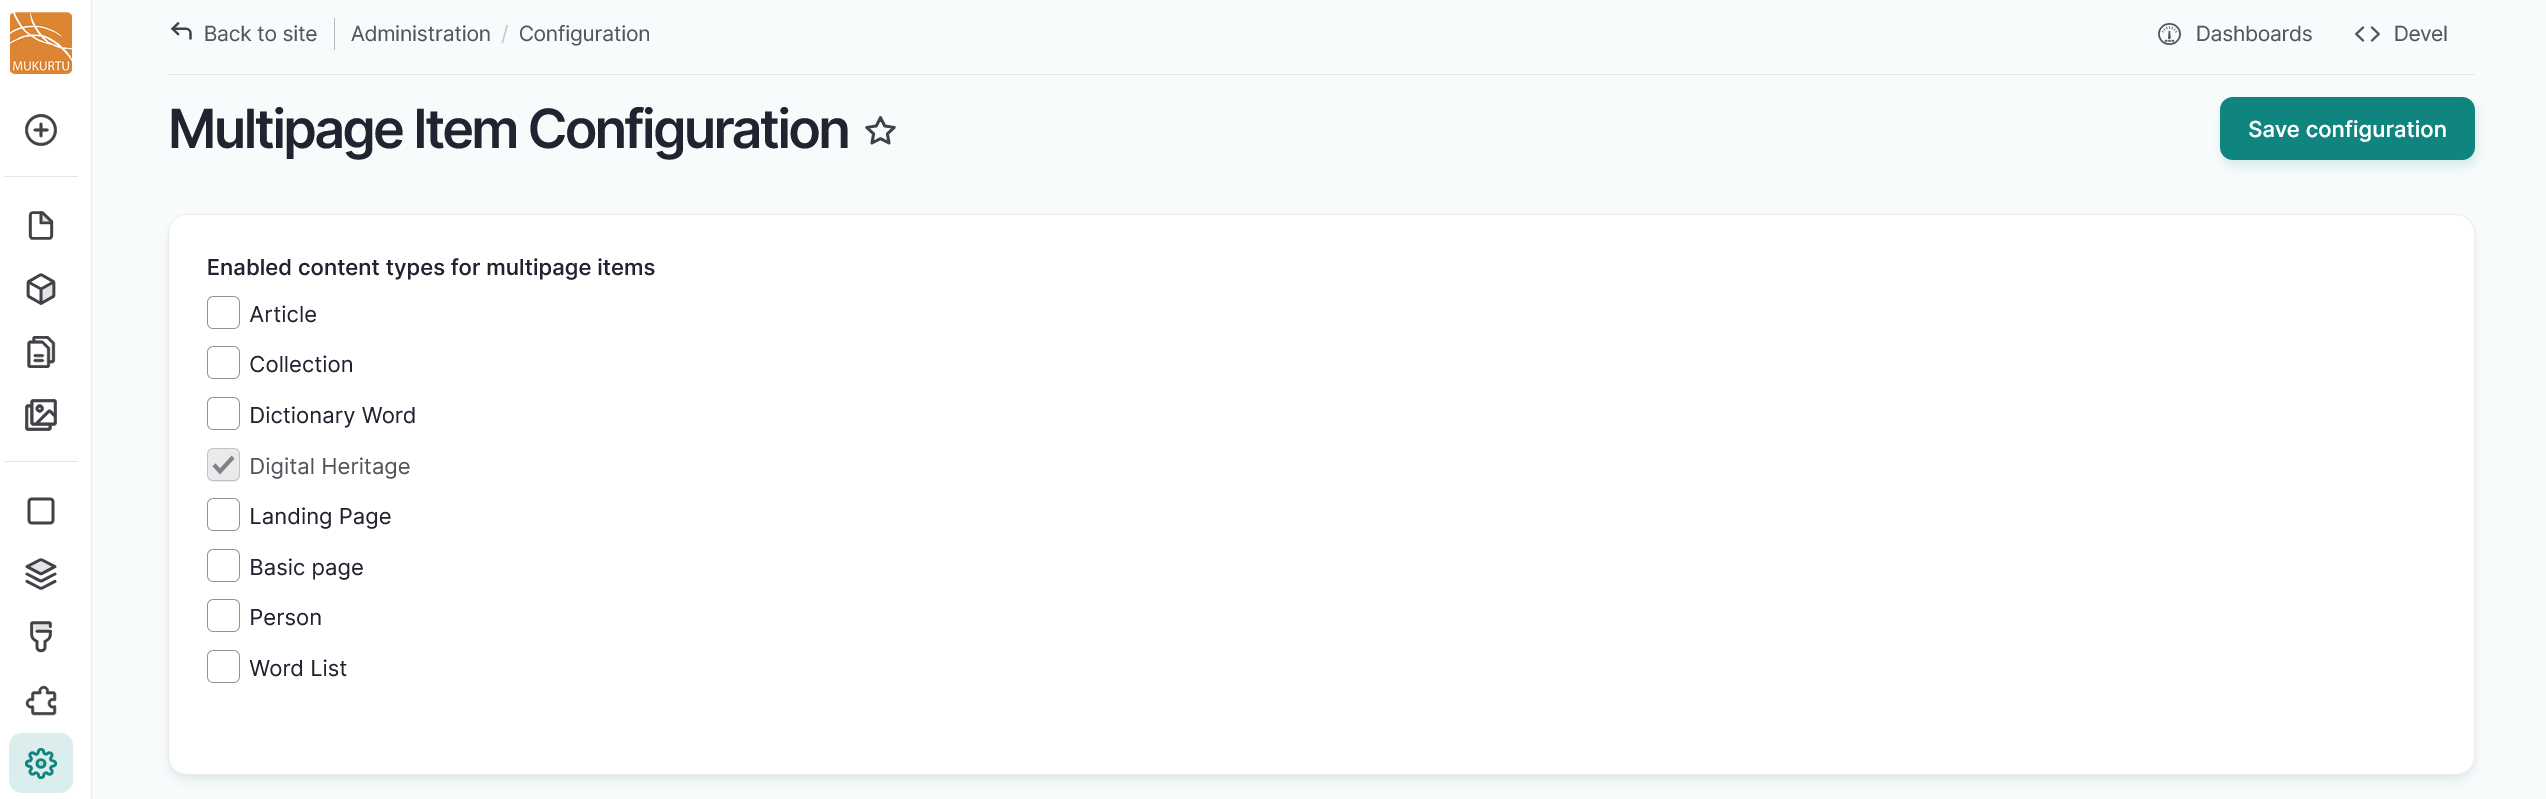
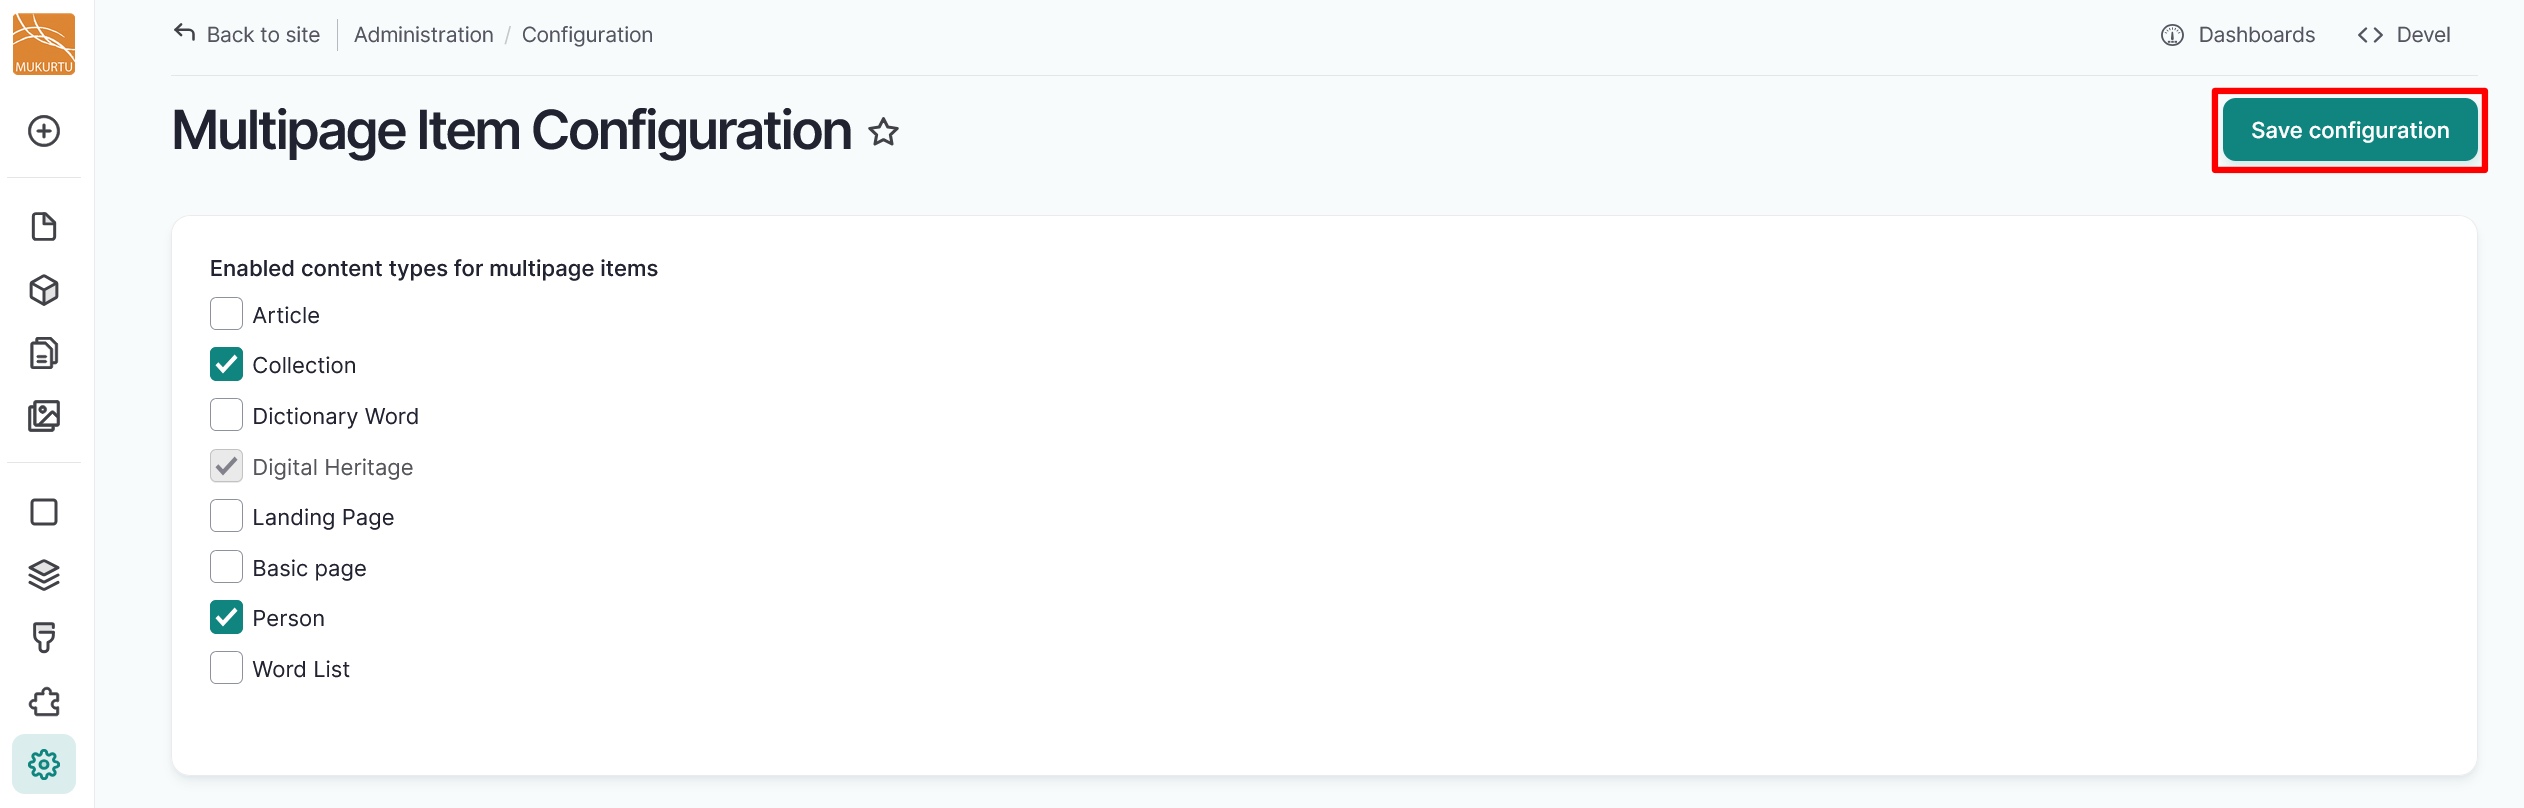
Image updates

diff --git a/docs/infrastructure/MultipageItemConfiguration.md b/docs/infrastructure/MultipageItemConfiguration.md
@@ -19,7 +19,7 @@ Digital heritage items are configured to allow multipage items by default. Enabl
 3. Select the content types you want to enable for multipage items. 
 4. Select "Save configuration". 
 
-    ![Screenshot of the multipage items configuration page.](../_embeds/configmulti2.png)
+    ![Screenshot of the multipage items configuration page with person records and collections selected and the save configuration button highlighted.](../_embeds/configmulti2.png)
 
     ![Screenshot of a person record with the create multipage item link highlighted.](../_embeds/configmulti3.png)
 
